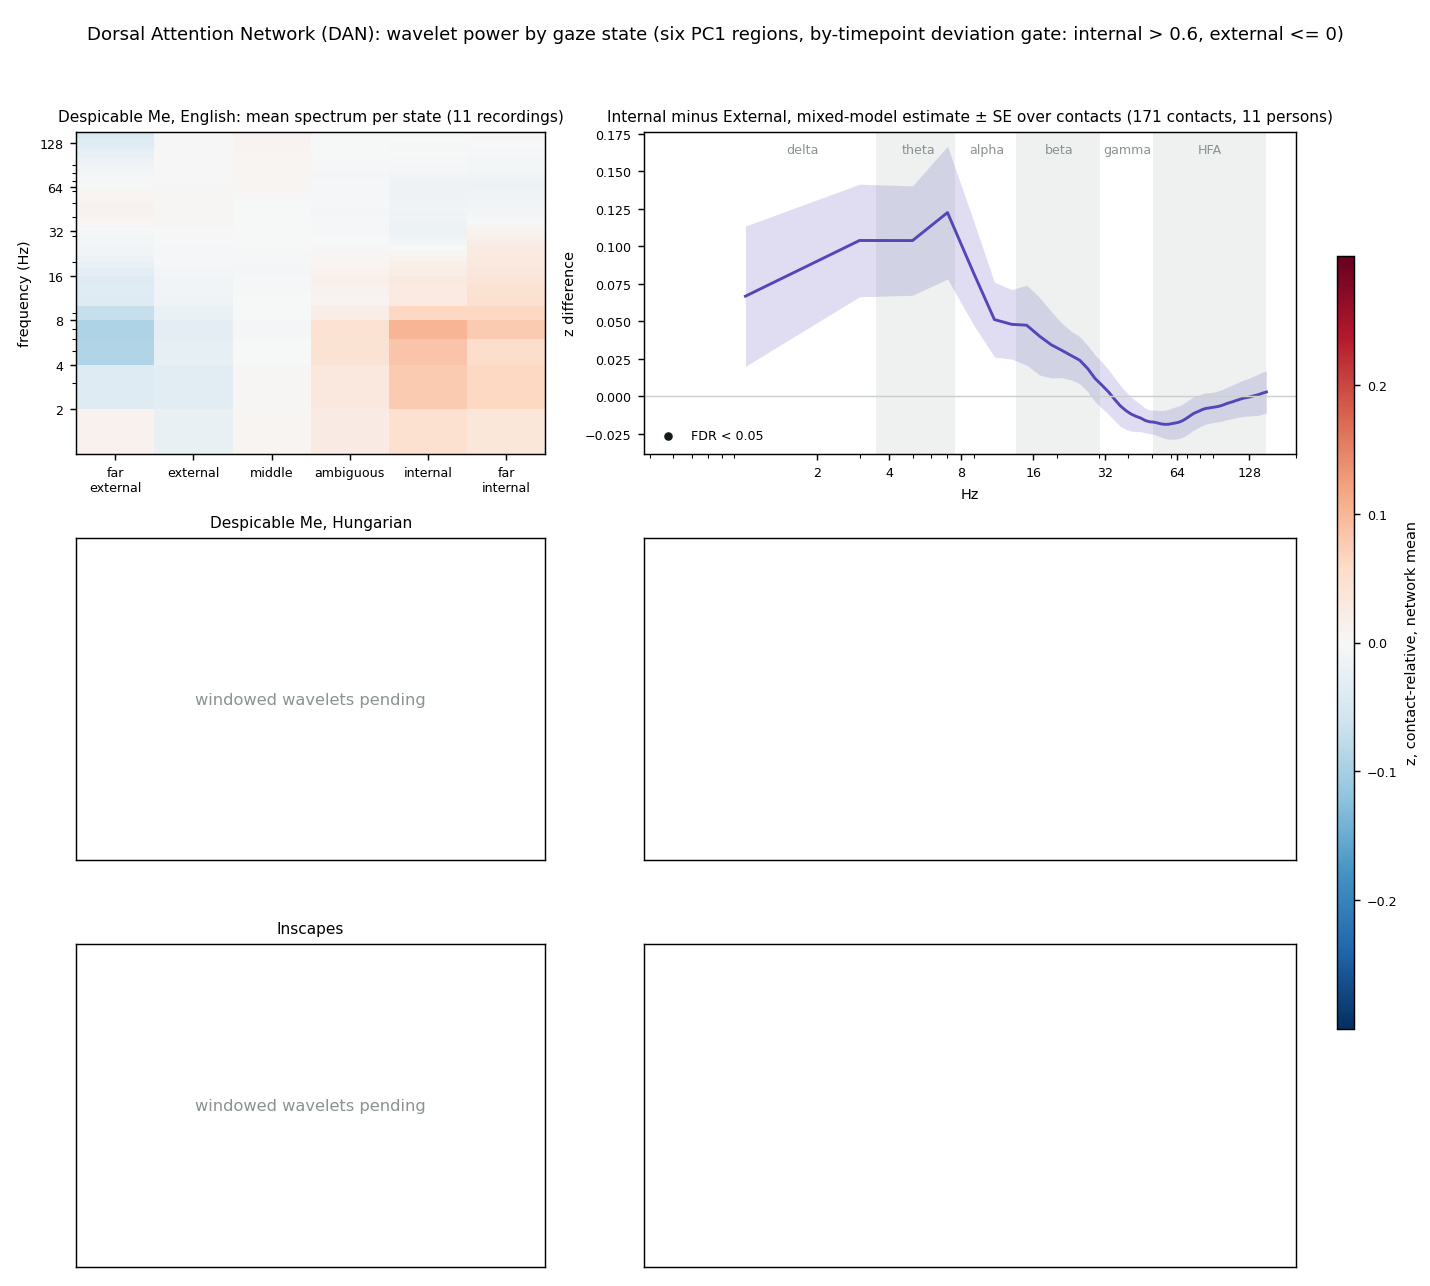
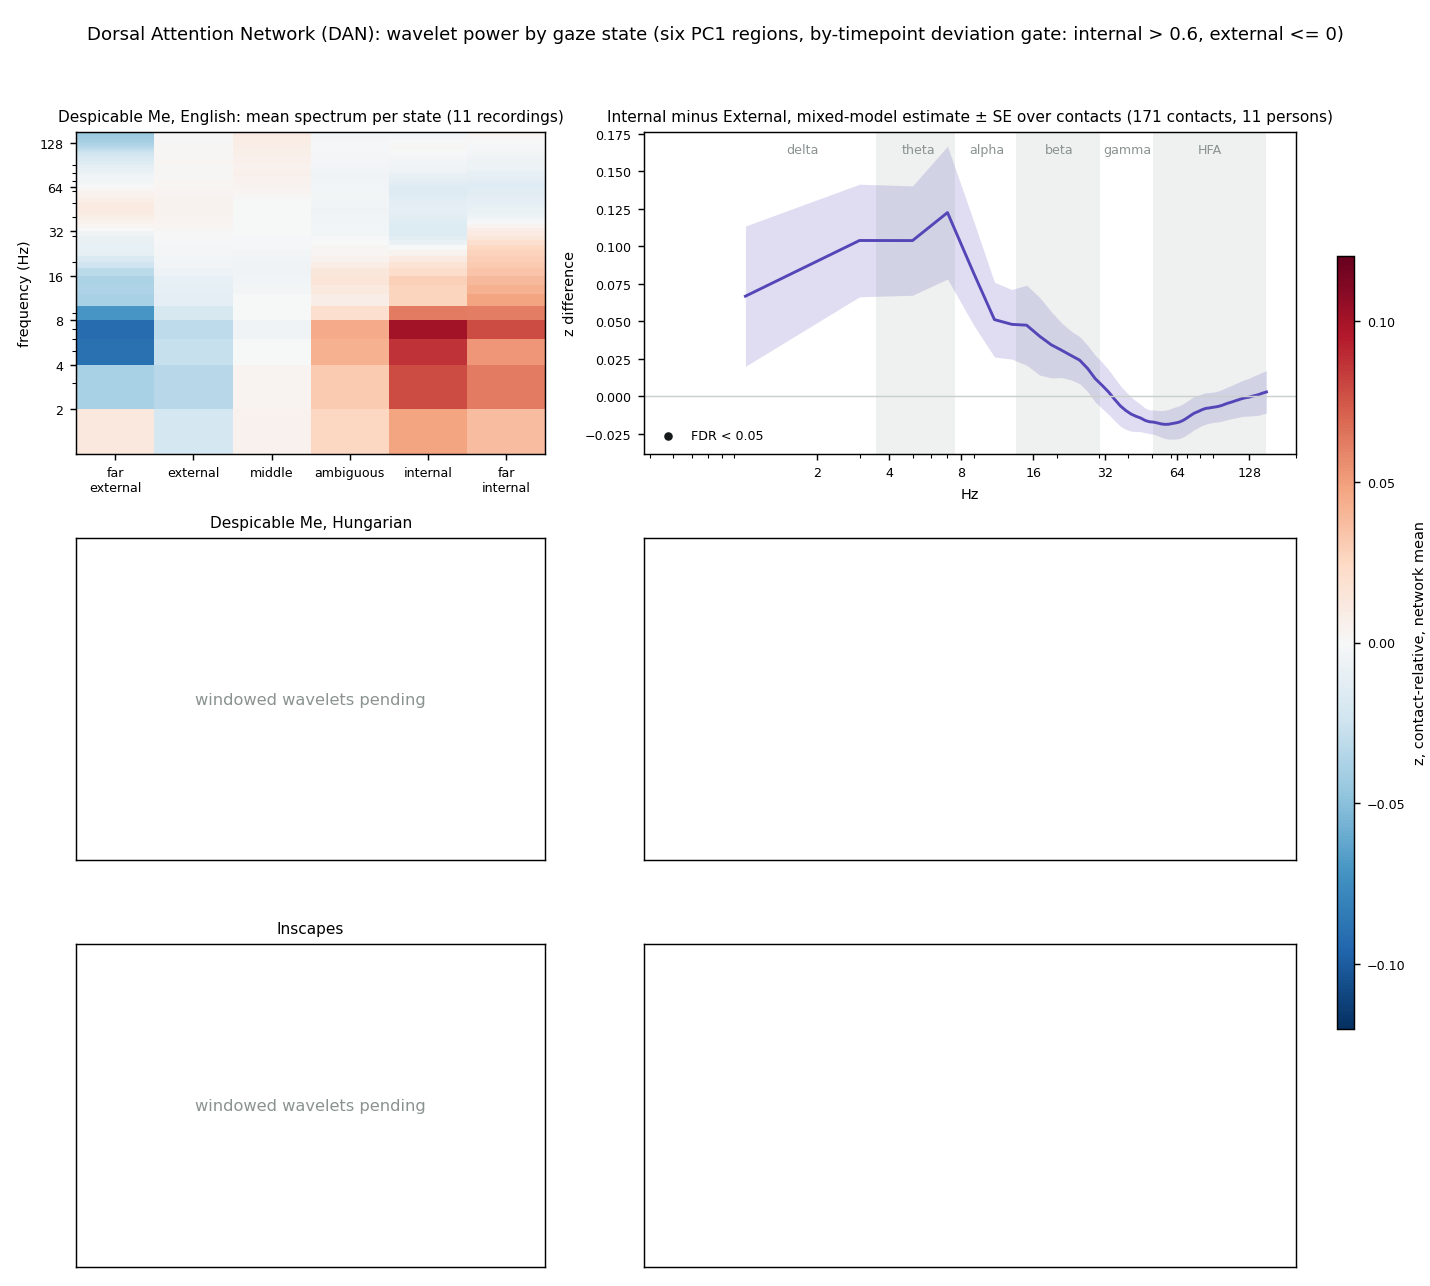
Spectrograms page: drop time-resolved maps, colour range ±0.12 z
Claude-Session: https://claude.ai/code/session_011o1cd7TCFfMfi4q8cm5qTc

diff --git a/reports/attn_explore_14Sep26_spectrograms.html b/reports/attn_explore_14Sep26_spectrograms.html
@@ -30,9 +30,9 @@ figcaption{font-family:var(--sans);font-size:13.5px;color:var(--ink-2);margin-to
 
 <div class="prose">
   <h2 style="margin-top:0">State-averaged spectra and the Internal minus External contrast</h2>
-  <p>This is the default view. Time is collapsed: for each network the left panel is a heatmap of the mean spectrum in each of the six gaze states, frequency on the y axis and state on the x axis from far external to far internal, and the right panel is the Internal minus External contrast at every frequency, where Internal pools the internal and far-internal regions and External pools the external and far-external regions. The summary figure below it shows the same contrast for all seven networks at once.</p>
+  <p>Time is collapsed: for each network the left panel is a heatmap of the mean spectrum in each of the six gaze states, frequency on the y axis and state on the x axis from far external to far internal, and the right panel is the Internal minus External contrast at every frequency, where Internal pools the internal and far-internal regions and External pools the external and far-external regions. The summary figure below it shows the same contrast for all seven networks at once.</p>
   <p>States are the six PC1 regions, cut on within-viewer PC1 z at -1.5, -0.4, 0.4, 0.8 and 1.2, with the by-timepoint deviation gate at both ends: the two internal regions keep only windows whose deviation z across viewers at that scene is above 0.6, and the two external regions keep only windows at or below 0. Windows failing a gate are dropped. Each contact's spectrum is robust-z-scored against its own recording and centred on its own mean over all good windows, so the heatmap shows departure from the contact's average at each frequency, averaged over the network's contacts and then over recordings. The contrast is a mixed model per frequency on the per-contact Internal minus External difference with a person random intercept; dots mark frequencies significant after FDR over the 76 frequencies within network and film.</p>
-  <p class="note">A film is drawn only once at least five of its recordings have windowed wavelets. English has 12. Hungarian and Inscapes are being windowed and will appear when the job finishes.</p>
+  <p class="note">A film is drawn only once at least five of its recordings have windowed wavelets. English has 12. Hungarian and Inscapes are being windowed and will appear when the job finishes. The colour range is ±0.12 z; values beyond it saturate.</p>
 </div>
 <h2>All networks: Internal minus External by frequency</h2>
 <figure><img src="spectrograms/spectra_summary.png" alt="Internal minus External z by frequency for all networks"></figure>
@@ -51,31 +51,4 @@ figcaption{font-family:var(--sans);font-size:13.5px;color:var(--ink-2);margin-to
 <h2>Default mode network</h2>
 <figure><img src="spectrograms/spectra_default_mode_network_dmn.png" alt="Default mode network state spectra"></figure>
 
-<div class="prose">
-  <h2>Time-resolved maps (secondary)</h2>
-  <p>The earlier time-resolved version, kept for reference: the same wavelet power, but laid out along the film with the map masked to the windows each viewer spent in the Internal, External or Neutral state of the two-state conj rule at 0.6.</p>
-</div>
-
-<div class="prose">
-  <h2>How the time-resolved maps are made</h2>
-  <p>The source is the windowed Morlet wavelet power: for each contact, log<sub>10</sub> power at 76 frequencies from 1 to 151 Hz in 2 Hz steps, averaged within each 10 s window on the same grid as every other analysis in the track, 236 windows stepped every 2.5 s. Each contact and frequency is robust-z-scored against its own whole-recording median and MAD, so a value of +1 means one typical step above that contact's usual power at that frequency.</p>
-  <p>For each recording, the contacts belonging to a network are averaged to give one 76 by 236 map, and that recording's mean spectrum over all its good windows is subtracted, so a map shows departure from the recording's own average at each frequency. Windows flagged by the manual QC are removed. The map is then split by state: for the Internal panel only windows labelled Internal keep their values, and so on, and the panels are averaged across recordings. Where no viewer was in that state at a given window the column is blank. The fourth panel in each row collapses time: the mean spectrum of each state's windows per recording, then mean and standard error across recordings.</p>
-  <p>States are the two-state conj rule at 0.6 from the log: Internal is PC1 z above 0.6 with deviation z above 0.6; External is PC1 z between -1.5 and -0.6; Neutral is everything else except the far-external tail, which is excluded. Recordings are the pipeline's neural inclusion list. The maps are descriptive; no statistics are computed here.</p>
-  <p class="note">Coverage: windowed wavelets currently exist for 12 English recordings. Hungarian and Inscapes are being windowed from the continuous files and their rows read "pending" until that finishes, after which this page will be regenerated. Four English windowed files were found truncated and were removed to be rebuilt; they will be added at the same time.</p>
-</div>
-
-<h2>Visual network</h2>
-<figure><img src="spectrograms/visual_network_vn.png" alt="Visual network spectrograms by state"></figure>
-<h2>Somatomotor network</h2>
-<figure><img src="spectrograms/somatomotor_network_smn.png" alt="Somatomotor network spectrograms by state"></figure>
-<h2>Dorsal attention network</h2>
-<figure><img src="spectrograms/dorsal_attention_network_dan.png" alt="Dorsal attention network spectrograms by state"></figure>
-<h2>Ventral attention network</h2>
-<figure><img src="spectrograms/ventral_attention_network_van.png" alt="Ventral attention network spectrograms by state"></figure>
-<h2>Limbic network</h2>
-<figure><img src="spectrograms/limbic_network_ln.png" alt="Limbic network spectrograms by state"></figure>
-<h2>Frontoparietal network</h2>
-<figure><img src="spectrograms/frontoparietal_network_fpn.png" alt="Frontoparietal network spectrograms by state"></figure>
-<h2>Default mode network</h2>
-<figure><img src="spectrograms/default_mode_network_dmn.png" alt="Default mode network spectrograms by state"></figure>
 </div>

diff --git a/analysis_scripts/attn_explore_14Sep26_spectra_states.py b/analysis_scripts/attn_explore_14Sep26_spectra_states.py
@@ -51,7 +51,7 @@ GATE_EXT_COL, GATE_EXT_MAX = 'mahal_time_z', 0.0
 MIN_WIN, MIN_CONTACTS, MIN_PERSONS = 3, 5, 3
 MIN_REC = 5            # films with fewer windowed recordings than this are shown as pending
 BANDS = [('delta', 1, 3), ('theta', 4, 7), ('alpha', 8, 13), ('beta', 14, 30), ('gamma', 31, 50), ('HFA', 51, 150)]
-VLIM = 0.3
+VLIM = 0.12
 
 
 def stage2(d):
